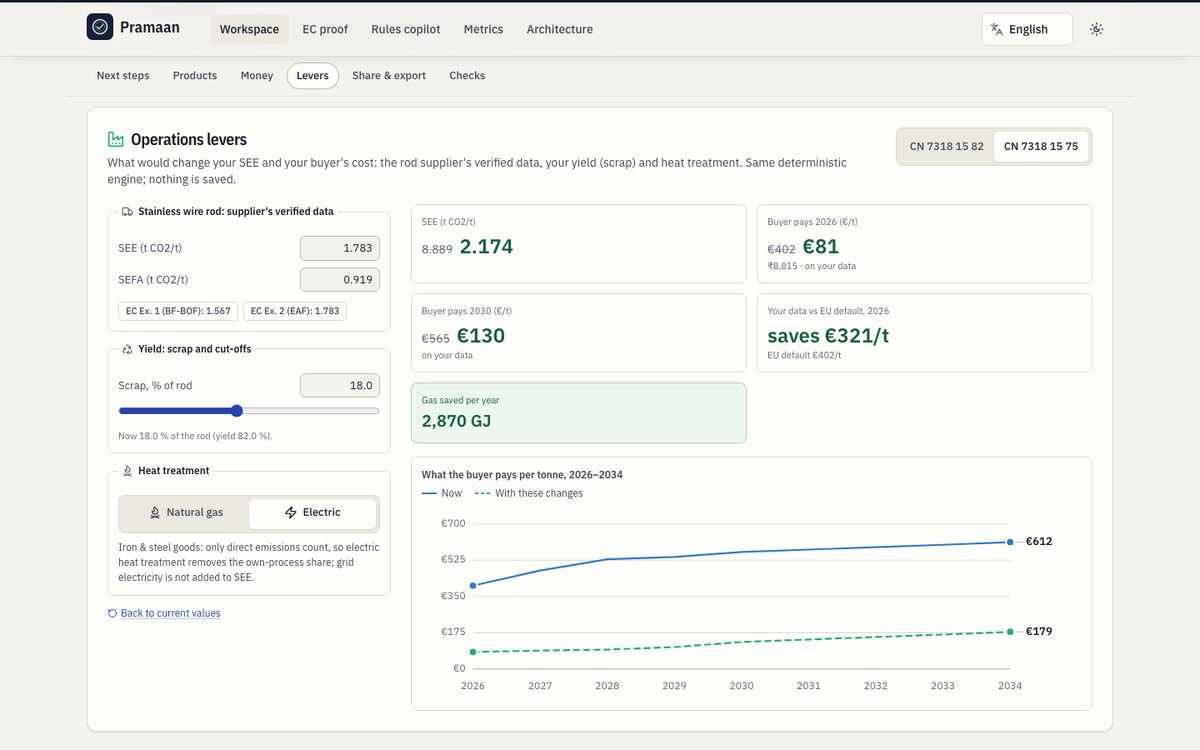
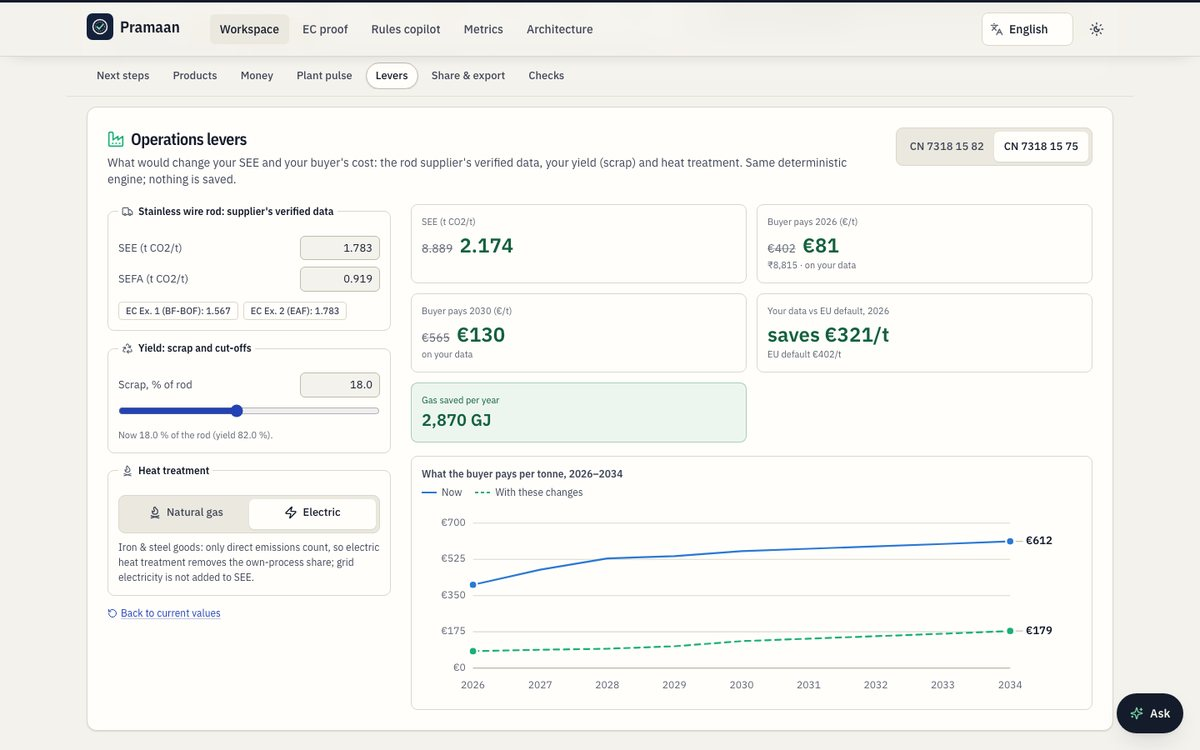
docs: the story in pictures - money-moves GIF, refreshed screenshots, architecture
* scripts/readme_shots.py [URL] (re-runnable against the deployed URL): every README still,
  evidence-lens.gif, and money-moves.gif - the supplier's phone and the exporter's report side by
  side: the verified statement goes in, the verdict counts €409,545 -> €572,546 (+€163,002).
* README diagram and the in-app Architecture page show Normalize (code), the supplier link, Ask about
  this report and Plant pulse. DECK_NOTES lists the visuals for slides and the Social Choice post.

Claude-Session: https://claude.ai/code/session_01YFRL3vM1jtQaZox7nyY3Ef

diff --git a/frontend/src/pages/Architecture.tsx b/frontend/src/pages/Architecture.tsx
@@ -1,6 +1,6 @@
 import { useQuery } from "@tanstack/react-query";
 import { useTranslation } from "react-i18next";
-import { ArrowDown, ArrowRight, Boxes, Calculator, ClipboardCheck, Cloud, Database, FileSearch, FileText, Hand, HardDrive, Inbox, MessageSquareText, ScanEye, ShieldCheck, Smartphone, Tags, Cpu, BookMarked, Activity } from "lucide-react";
+import { ArrowDown, ArrowRight, Boxes, Calculator, ClipboardCheck, Cloud, Database, FileSearch, FileText, Hand, HardDrive, Inbox, MessageSquareText, ScanEye, ShieldCheck, Smartphone, Tags, Cpu, BookMarked, Activity, Gauge, Link2, MessagesSquare, Wand2 } from "lucide-react";
 import { api } from "@/lib/api";
 import { Reveal } from "@/lib/motion";
 
@@ -9,7 +9,8 @@ const FLOW = [
   { k: "Classifier", icon: Tags, m: "gemini-3.8-flash", c: "{doc_id, doc_type, languages, period, confidence}" },
   { k: "ProductLines", icon: Boxes, m: "owner's lines, or gemini-3.8-flash proposal", c: "one line per exported CN code ← its steel input; every code checked against refdata; owner confirms" },
   { k: "Extractor", icon: FileSearch, m: "gemini-3.8-flash · high media resolution", c: "Field{field_key, value_text, value_num, unit, box_2d, page, label}" },
-  { k: "SecondReader", icon: ScanEye, m: "gemini-3.5-flash-lite · crop only", c: "{reading_value, reading_unit, agrees, delta}" },
+  { k: "Normalize", icon: Wand2, m: "code", c: "schema scope per field · one product line per single-material document · CN as dddd dd dd · salvaged numbers · ISO dates" },
+  { k: "SecondReader", icon: ScanEye, m: "gemini-3.5-flash-lite · crop only", c: "{reading_value, reading_unit, agrees, delta, crossed_out}" },
   { k: "ControlChecks", icon: ClipboardCheck, m: "code", c: "Check{name, formula, inputs, result, tolerance, status}" },
   { k: "GapFinder", icon: ShieldCheck, m: "code → Calculator tool", c: "checklist per process + question per gap (EN/HI/TA/VI)" },
   { k: "Explainer", icon: MessageSquareText, m: "gemini-3.8-flash + numbers guard", c: "sections with page citations; no new numbers" },
@@ -54,12 +55,24 @@ export default function Architecture() {
             <div className="mt-3 grid gap-2 sm:grid-cols-2">
               <div className="flex items-start gap-2 rounded-xl border border-warn/40 bg-warnbg p-3 text-[12px] text-warnink">
                 <Hand className="mt-0.5 h-4 w-4 shrink-0" />
-                <span><b>HumanReview</b> — SecondReader routes mismatches here; amber values wait for a tap (PATCH /evidence), then a deterministic recalculation.</span>
+                <span><b>HumanReview</b> — SecondReader routes mismatches and hand-corrected figures here; amber values wait for a tap (PATCH /evidence), then a deterministic recalculation.</span>
               </div>
               <div className="flex items-start gap-2 rounded-xl border border-line bg-sunk p-3 text-[12px] text-ink2">
                 <Calculator className="mt-0.5 h-4 w-4 shrink-0" />
                 <span><b>Calculator</b> — Decimal CBAM engine exposed as an ADK FunctionTool. Every node → evidence, refdata or assumption. Golden tests G1–G8.</span>
               </div>
+            </div>
+            <div className="mt-2 grid gap-2 sm:grid-cols-3">
+              {[
+                { icon: Link2, t: "Supplier link", d: "the rod supplier uploads its verified statement from a phone, no account; the same agents read only the new document; the line moves to verified data" },
+                { icon: MessagesSquare, t: "Ask about this report", d: "engine facts (calc-tree ids) + guidance pages → gemini-3.8-flash → numbers guard; every number opens the Evidence Lens" },
+                { icon: Gauge, t: "Plant pulse", d: "gas per tonne by month against the median month; hot months priced at the bill's own rate; all calculation nodes" },
+              ].map((x) => (
+                <div key={x.t} className="flex items-start gap-2 rounded-xl border border-line bg-surface p-3 text-[12px] text-ink2">
+                  <x.icon className="mt-0.5 h-4 w-4 shrink-0 text-accent" />
+                  <span><b className="text-ink">{x.t}</b> — {x.d}</span>
+                </div>
+              ))}
             </div>
           </div>
         </section>

diff --git a/scripts/readme_shots.py b/scripts/readme_shots.py
@@ -1,0 +1,220 @@
+"""README screenshots and GIFs from a running Pramaan (local or the deployed URL).
+
+    backend/.venv/bin/python scripts/readme_shots.py [BASE_URL]      # default http://127.0.0.1:8080
+
+Writes docs/screenshots/: stills (1200 x 750 JPEG unless noted), evidence-lens.gif (640 x 400) and
+money-moves.gif (the supplier's phone and the exporter's report side by side). Everything shown is
+the fictional sample factory. Re-run after a deploy so the README shows what judges will see.
+"""
+
+from __future__ import annotations
+
+import io
+import sys
+from pathlib import Path
+
+from PIL import Image, ImageDraw, ImageFont
+from playwright.sync_api import Page, expect, sync_playwright
+
+ROOT = Path(__file__).resolve().parents[1]
+OUT = ROOT / "docs" / "screenshots"
+B = (sys.argv[1] if len(sys.argv) > 1 and not sys.argv[1].startswith("--") else "http://127.0.0.1:8080").rstrip("/")
+FONT = ROOT / "demo" / "fonts" / "NotoSans.ttf"
+PAPER = (244, 242, 236)
+
+
+def save(png: bytes, name: str, size: tuple[int, int] | None = (1200, 750)) -> None:
+    im = Image.open(io.BytesIO(png)).convert("RGB")
+    if size:
+        im = im.resize(size, Image.Resampling.LANCZOS)
+    im.save(OUT / f"{name}.jpg", quality=84, optimize=True, progressive=True)
+
+
+def gif(frames: list[tuple[Image.Image, int]], name: str) -> None:
+    ims = [f for f, _ in frames]
+    pal = ims[0].quantize(colors=200, method=Image.Quantize.MEDIANCUT)
+    q = [im.quantize(palette=pal, dither=Image.Dither.NONE) for im in ims]
+    q[0].save(OUT / name, save_all=True, append_images=q[1:], duration=[d for _, d in frames], loop=0, optimize=True, disposal=1)
+    print(f"{name}: {len(frames)} frames, {(OUT / name).stat().st_size // 1024} KB")
+
+
+def top_of(pg: Page, sel: str, gap: int = 128) -> None:
+    pg.evaluate(f"window.scrollTo(0, document.querySelector('{sel}').getBoundingClientRect().top + window.scrollY - {gap})")
+
+
+def evidence_lens_and_stills(b) -> None:  # type: ignore[no-untyped-def]
+    c = b.new_context(viewport={"width": 1440, "height": 900}, color_scheme="light")
+    pg = c.new_page()
+    frames: list[tuple[Image.Image, int]] = []
+
+    def frame(ms: int) -> None:
+        frames.append((Image.open(io.BytesIO(pg.screenshot())).convert("RGB").resize((640, 400), Image.Resampling.LANCZOS), ms))
+
+    pg.goto(B + "/", wait_until="networkidle")
+    pg.wait_for_timeout(3300)
+    save(pg.screenshot(), "landing")
+    pg.get_by_role("button", name="Load sample factory").click()
+    pg.wait_for_url("**/report")
+    for _ in range(5):
+        pg.wait_for_timeout(220)
+        frame(120)
+    pg.wait_for_timeout(900)
+    frame(1500)
+    pid = pg.url.split("/p/")[1].split("/")[0]
+    save(pg.screenshot(), "report")
+    top_of(pg, "#lines", 150)
+    pg.wait_for_timeout(1300)
+    frame(900)
+    pg.locator("#lines button.clickable-num").first.click()
+    for _ in range(3):
+        pg.wait_for_timeout(110)
+        frame(90)
+    pg.wait_for_timeout(500)
+    frame(1300)
+    save(pg.screenshot(), "lens-see")
+    pg.get_by_role("dialog").locator("ul.grid li button").nth(2).click()
+    for _ in range(8):
+        pg.wait_for_timeout(260)
+        frame(160)
+    pg.wait_for_timeout(700)
+    frame(1900)
+    save(pg.screenshot(), "lens-source")
+    pg.keyboard.press("Escape")
+    pg.wait_for_timeout(400)
+    pg.goto(f"{B}/p/{pid}/gaps", wait_until="networkidle")
+    for _ in range(4):
+        pg.wait_for_timeout(300)
+        frame(220)
+    pg.wait_for_timeout(600)
+    frame(1400)
+    save(pg.screenshot(), "two-readers")
+    pg.get_by_role("button", name="Approve 15.4").click()
+    for _ in range(5):
+        pg.wait_for_timeout(160)
+        frame(140)
+    pg.wait_for_timeout(700)
+    frame(900)
+    pg.goto(f"{B}/p/{pid}/report", wait_until="networkidle")
+    for _ in range(3):
+        pg.wait_for_timeout(250)
+        frame(150)
+    pg.wait_for_timeout(900)
+    frame(2200)
+    gif(frames, "evidence-lens.gif")
+
+    top_of(pg, "#next", 140)
+    pg.wait_for_timeout(900)
+    save(pg.screenshot(), "next-steps")
+    top_of(pg, "#money")
+    pg.wait_for_timeout(1900)
+    pg.mouse.move(820, 560)
+    pg.wait_for_timeout(500)
+    save(pg.screenshot(), "money")
+    top_of(pg, "#pulse")
+    pg.wait_for_timeout(1800)
+    pg.locator("#pulse").screenshot(path=str(OUT / "_pulse.png"))
+    Image.open(OUT / "_pulse.png").convert("RGB").save(OUT / "plant-pulse.jpg", quality=84, optimize=True)
+    (OUT / "_pulse.png").unlink()
+    top_of(pg, "#levers")
+    pg.wait_for_timeout(900)
+    pg.get_by_role("button", name="EC Ex. 2 (EAF): 1.783").click()
+    pg.wait_for_timeout(300)
+    pg.get_by_role("button", name="Electric").click()
+    pg.wait_for_timeout(1800)
+    save(pg.screenshot(), "levers")
+    pg.goto(f"{B}/p/{pid}/capture", wait_until="networkidle")
+    pg.wait_for_timeout(1800)
+    save(pg.screenshot(), "capture")
+    pg.goto(B + "/proof", wait_until="networkidle")
+    pg.wait_for_timeout(1800)
+    save(pg.screenshot(), "proof")
+    # the tour, second stop
+    pg.goto(B + "/", wait_until="networkidle")
+    pg.get_by_role("button", name="Take the 90-second tour").click()
+    tour = pg.locator('[role="dialog"][aria-labelledby="tour-title"]')
+    expect(tour).to_be_visible(timeout=15_000)
+    tour.get_by_role("button", name="Next").click()
+    pg.wait_for_timeout(1600)
+    save(pg.screenshot(), "tour")
+    c.close()
+    m = b.new_context(viewport={"width": 360, "height": 780}, device_scale_factor=2)
+    mp = m.new_page()
+    mpid = mp.request.post(B + "/api/demo/load", data={}).json()["project_id"]
+    mp.goto(f"{B}/p/{mpid}/gaps", wait_until="networkidle")
+    mp.wait_for_timeout(2200)
+    save(mp.screenshot(), "mobile-gaps", None)
+    m.close()
+
+
+def money_moves(b) -> None:  # type: ignore[no-untyped-def]
+    """The supplier's phone and the exporter's report side by side: the statement goes in, the money moves."""
+    ex = b.new_context(viewport={"width": 1280, "height": 800}).new_page()
+    sp = b.new_context(viewport={"width": 390, "height": 844}, is_mobile=True, has_touch=True).new_page()
+    pid = ex.request.post(B + "/api/demo/load", data={}).json()["project_id"]
+    tok = ex.request.post(f"{B}/api/projects/{pid}/supplier-link", data={"process_id": "P2"}).json()["token"]
+    ex.goto(f"{B}/p/{pid}/report", wait_until="networkidle")
+    sp.goto(f"{B}/supplier/{tok}", wait_until="networkidle")
+    ex.wait_for_timeout(2500)
+    sp.wait_for_timeout(800)
+    font = ImageFont.truetype(str(FONT), 17)
+    small = ImageFont.truetype(str(FONT), 14)
+    frames: list[tuple[Image.Image, int]] = []
+
+    def frame(ms: int, caption: str) -> None:
+        a = Image.open(io.BytesIO(ex.screenshot())).convert("RGB").resize((768, 480), Image.Resampling.LANCZOS)
+        p = Image.open(io.BytesIO(sp.screenshot())).convert("RGB").resize((222, 480), Image.Resampling.LANCZOS)
+        canvas = Image.new("RGB", (768 + 222 + 48, 480 + 74), PAPER)
+        canvas.paste(a, (16, 16))
+        canvas.paste(p, (768 + 32, 16))
+        d = ImageDraw.Draw(canvas)
+        d.rectangle([15, 15, 16 + 768, 16 + 480], outline=(200, 196, 186))
+        d.rectangle([768 + 31, 15, 768 + 32 + 222, 16 + 480], outline=(200, 196, 186))
+        d.text((16, 480 + 26), caption, fill=(20, 33, 61), font=font)
+        d.text((768 + 32, 480 + 28), "Supplier's phone", fill=(91, 100, 117), font=small)
+        frames.append((canvas, ms))
+
+    frame(1800, "The exporter's report: €409,545 a year secured, stainless bolts on the EU default")
+    frame(1400, "The rod supplier opens the upload link on a phone — no account")
+    sp.get_by_role("button", name="Send the sample statement").click()
+    for _ in range(6):
+        sp.wait_for_timeout(260)
+        frame(220, "Its verified statement goes in; the same two AI readers check it")
+    expect(sp.get_by_text("Thank you.")).to_be_visible(timeout=30_000)
+    sp.wait_for_timeout(500)
+    frame(1300, "Verified by two readers")
+    for _ in range(40):  # the exporter's open report picks it up (it polls while a link is out)
+        if ex.get_by_text("sent verified data").count():
+            break
+        ex.wait_for_timeout(250)
+    for _ in range(8):
+        ex.wait_for_timeout(120)
+        frame(110, "... and the exporter's report moves by itself")
+    ex.wait_for_timeout(1400)  # let the verdict finish counting (the +€ badge stays for 4.5 s)
+    frame(3200, "€572,546 a year: stainless bolts €402 to €97 per tonne, 2 of 2 lines ready")
+    gif(frames, "money-moves.gif")
+    # stills for the README table
+    Image.open(io.BytesIO(sp.screenshot(full_page=True))).convert("RGB").crop((0, 0, 390, 800)).save(
+        OUT / "supplier-phone.jpg", quality=84, optimize=True
+    )
+    ex.evaluate("window.scrollTo(0, 0)")
+    ex.wait_for_timeout(400)
+    Image.open(io.BytesIO(ex.screenshot())).convert("RGB").crop((60, 80, 1220, 560)).save(
+        OUT / "supplier-money-moves.jpg", quality=84, optimize=True
+    )
+
+
+def main() -> int:
+    OUT.mkdir(parents=True, exist_ok=True)
+    only = sys.argv[sys.argv.index("--only") + 1] if "--only" in sys.argv else None
+    with sync_playwright() as p:
+        b = p.chromium.launch()
+        if only in (None, "stills"):
+            evidence_lens_and_stills(b)
+        if only in (None, "money"):
+            money_moves(b)
+        b.close()
+    return 0
+
+
+if __name__ == "__main__":
+    raise SystemExit(main())

diff --git a/README.md b/README.md
@@ -68,9 +68,7 @@ read from its own document, never the exporter's plant data; the link can only a
 one product line. On the fictional sample, *Open as the supplier* plays the supplier's side with a
 bundled statement (`demo/supplier`).
 
-| The supplier, on a phone | The exporter's report, a few seconds later |
-|---|---|
-| ![Supplier upload link](docs/screenshots/supplier-phone.jpg) | ![The money moves](docs/screenshots/supplier-money-moves.jpg) |
+![The supplier's phone and the exporter's report: the statement goes in, the money moves](docs/screenshots/money-moves.gif)
 
 ### Plant pulse: the same bills, read for efficiency
 
@@ -148,12 +146,14 @@ Example 1, 3,690 certificates are due on 15,670 t embedded: 23.5 %, not 5 %.
 ```mermaid
 flowchart LR
   P["Phone / PWA"] --> API["Cloud Run · FastAPI + SSE + SPA"]
-  API --> I[Intake] --> C["Classifier<br/>gemini-3.8-flash"] --> PL["ProductLines<br/>owner's lines, or proposed from invoices<br/>(CN codes checked vs refdata)"] --> E["Extractor<br/>box_2d per value"] --> S["SecondReader<br/>gemini-3.5-flash-lite · crop only"]
-  S -- mismatch --> H["HumanReview<br/>tap to approve"] --> K
+  SUP["Supplier link<br/>(phone, no account)"] --> API
+  API --> I[Intake] --> C["Classifier<br/>gemini-3.8-flash"] --> PL["ProductLines<br/>owner's lines, or proposed from invoices<br/>(CN codes checked vs refdata)"] --> E["Extractor<br/>box_2d per value"] --> N["Normalize (code)<br/>scope · CN · refs · numbers"] --> S["SecondReader<br/>gemini-3.5-flash-lite · crop only"]
+  S -- "mismatch or hand-corrected" --> H["HumanReview<br/>tap to approve"] --> K
   S -- agree --> K["ControlChecks (code)"] --> G["GapFinder"] --> X["Explainer<br/>numbers guard"] --> R["Reporter"]
-  G -. ADK FunctionTool .-> CALC["Calculator<br/>Decimal CBAM engine"] --> REF[("Official refdata<br/>+ SHA-256 manifest")]
+  G -. ADK FunctionTool .-> CALC["Calculator<br/>Decimal CBAM engine<br/>+ Plant pulse"] --> REF[("Official refdata<br/>+ SHA-256 manifest")]
+  API --> ASK["Ask about this report<br/>engine facts + guidance<br/>numbers guard"]
   API --> FS[("Firestore")] & GCS[("Cloud Storage")]
-  C & PL & E & S & X --> GEM[["Gemini · Agent Platform (global)"]]
+  C & PL & E & S & X & ASK --> GEM[["Gemini · Agent Platform (global)"]]
 ```
 
 * **ADK 2.11 Workflow** graph with route-based branching (mismatch → HumanReview). The Calculator is an ADK `FunctionTool`. Details: [docs/ARCHITECTURE.md](docs/ARCHITECTURE.md).

diff --git a/docs/PROGRESS.md b/docs/PROGRESS.md
@@ -9,6 +9,16 @@ copilot · 3 energy-efficiency insights (theme: industrial efficiency) · 4 guid
 5 phone flow · 6 i18n + cost receipt · 7 live-run robustness · 8 accessibility/performance · 9 docs
 and visuals · 10 final judging.
 
+### Iteration 9 — the story in pictures (README, architecture, GIFs)
+* Judge: the README is the first thing many judges read; its pictures predated iterations 1–8 and the
+  strongest moment (the supplier's upload moving the money) had no picture at all.
+* Built: `scripts/readme_shots.py [URL]` (in the repo, re-runnable against the deployed URL): all README
+  stills, `evidence-lens.gif`, and the new `money-moves.gif` (supplier's phone + exporter's report side by
+  side, €409,545 → €572,546). README diagram and the in-app Architecture page show Normalize, the supplier
+  link, Ask about this report and Plant pulse. DECK_NOTES lists the visuals.
+* Not captured on purpose: an "Ask" screenshot with a Gemini answer (only possible on the live service; a
+  scripted answer would misrepresent it) — capture after the redeploy.
+
 ### Iteration 8 — fast on a phone (and Lighthouse 91/100/100/100 mobile)
 * Judge: Lighthouse mobile 87/100/100/92 on the landing page: all four languages in the first bundle
   (189 KB gzip), the page fade and a fade-in on the headline delayed the largest paint, robots.txt was the

diff --git a/docs/DECK_NOTES.md b/docs/DECK_NOTES.md
@@ -123,3 +123,10 @@ browser on the live service (warm instance), each visitor gets a private copy (t
 Built for JAPAC (Vietnam, China, Korea, Indonesia face the same defaults); Commission proposal to
 extend CBAM downstream (~180 product categories from 2028); UK CBAM from 2027. Pramaan is not a
 substitute for an accredited verifier — it makes verification fast and cheap.
+
+## Visuals for slides and posts (regenerate with `scripts/readme_shots.py <URL>` after a deploy)
+* `docs/screenshots/money-moves.gif` — supplier's phone + exporter's report side by side; the
+  statement goes in, the verdict counts €409,545 → €572,546 (+€163,002). The Social Choice post.
+* `docs/screenshots/evidence-lens.gif` — verdict → SEE → Evidence Lens → the photo → two readers → stamp.
+* `tour.jpg`, `plant-pulse.jpg`, `report.jpg`, `two-readers.jpg`, `lens-see.jpg`, `money.jpg`,
+  `levers.jpg`, `proof.jpg`, `mobile-gaps.jpg`, and `frontend/public/og.jpg` (link preview card).
